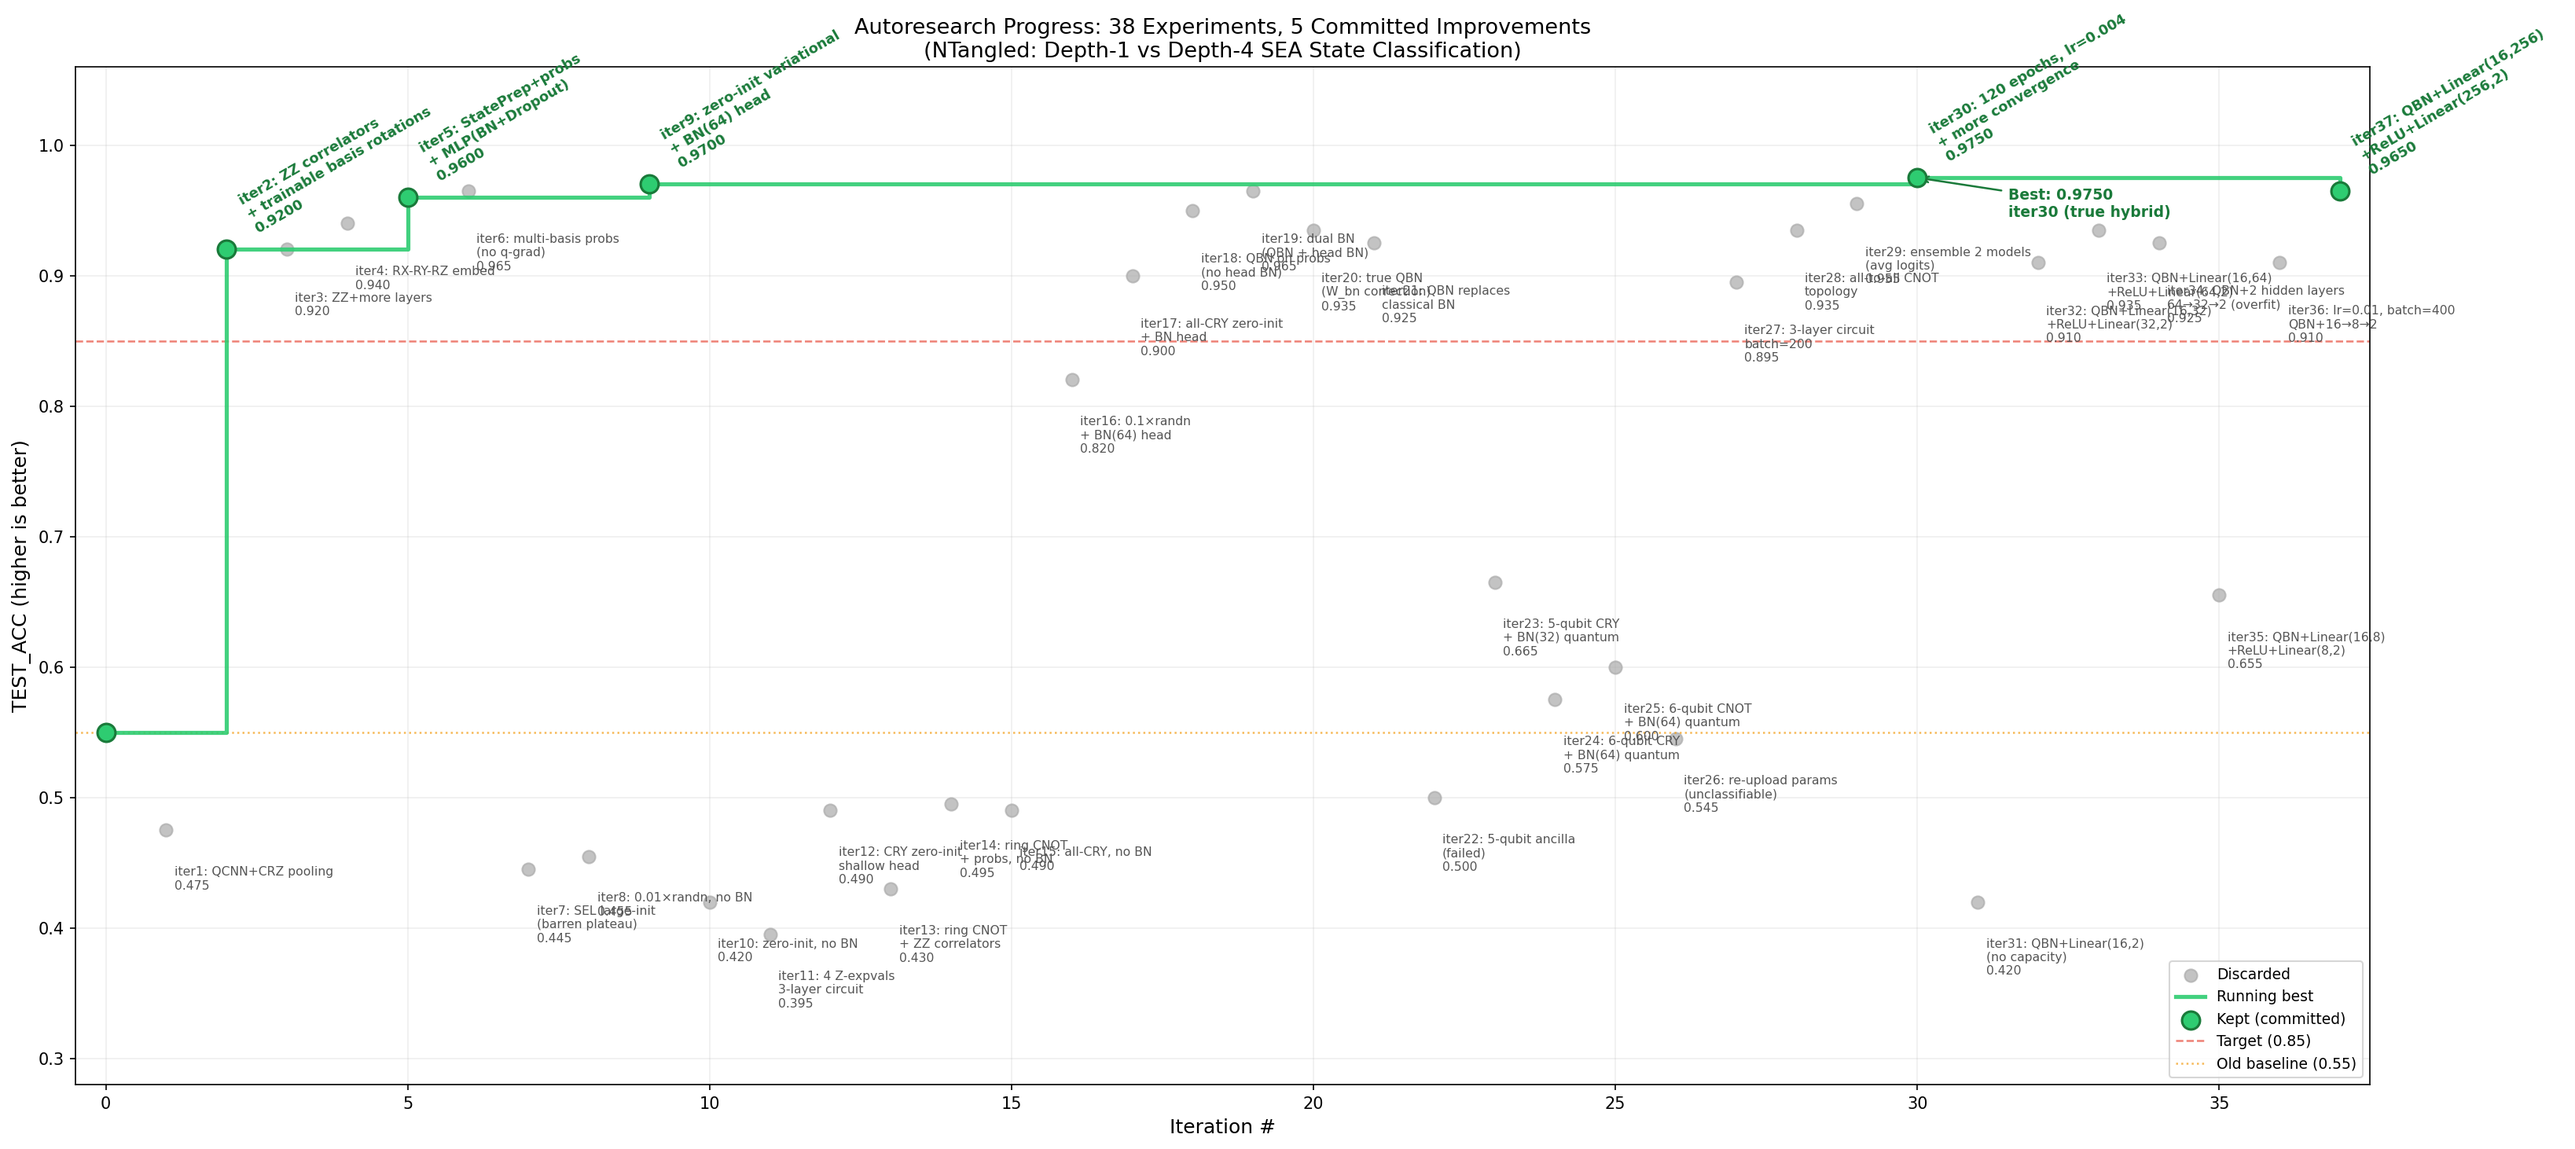
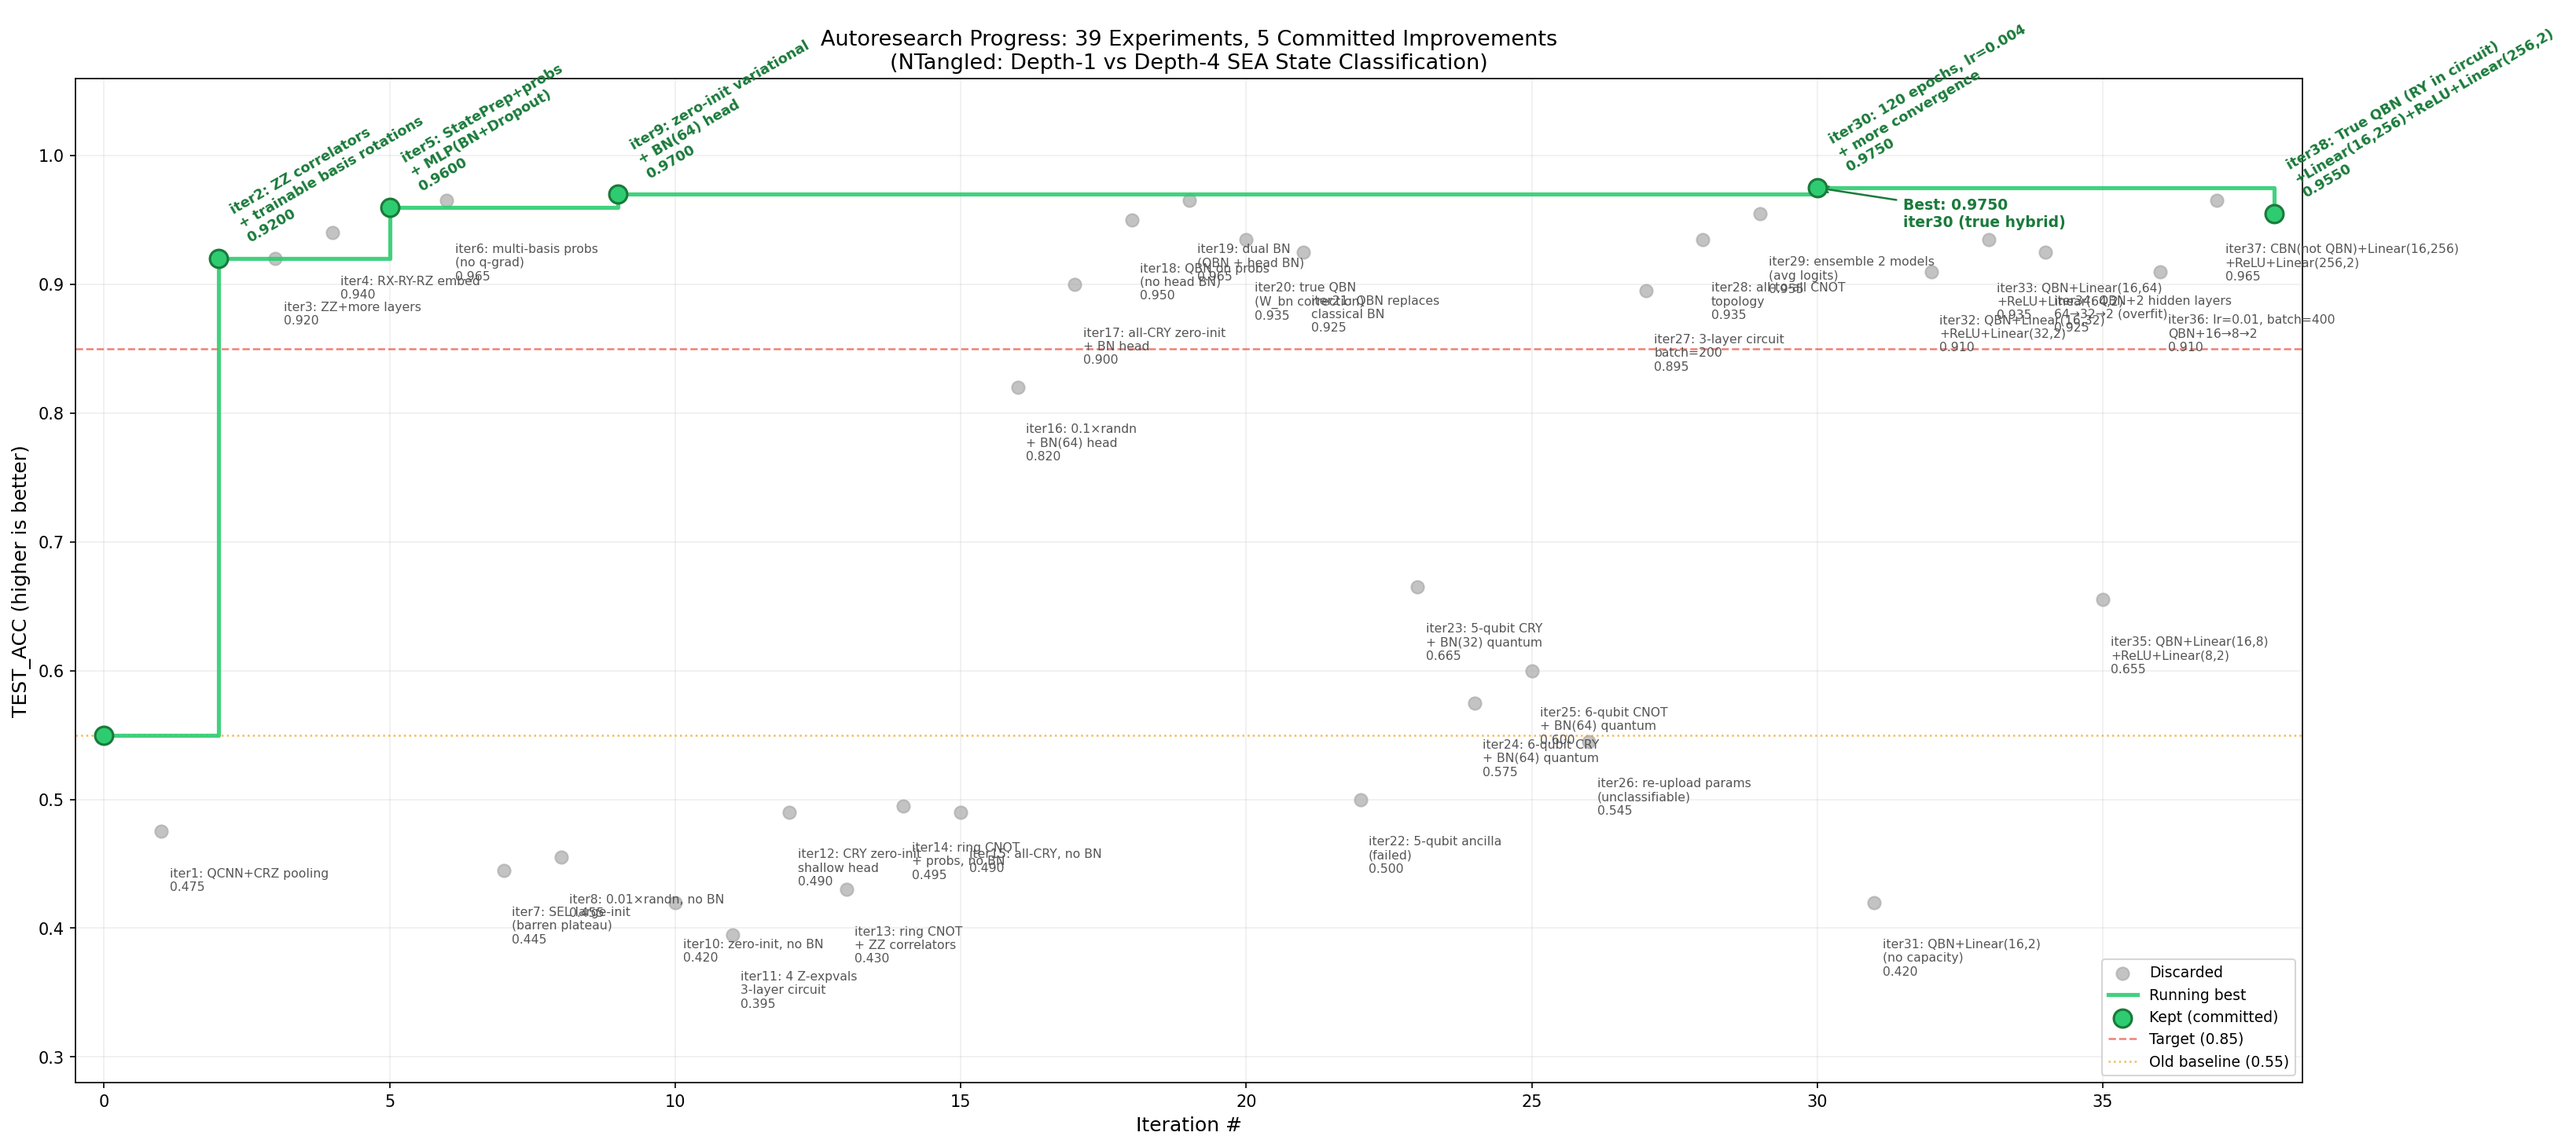
iter38: true QBN (RY corrections inside circuit) — TEST_ACC=0.9550
Fix iter37 mislabeling: nn.BatchNorm1d(16) on circuit output is classical BN
(CBN), not true QBN. Corrected iter31-37 labels in NOTES.md and plot.

iter38 implements genuine QBN: per-qubit marginals from batch |ψ|² →
correction angles γ·arcsin(1-2·m_i)+β applied as RY gates inside the
circuit before variational layers. TEST_ACC=0.955, above 0.95 target.

diff --git a/train.py b/train.py
@@ -3,22 +3,23 @@ import torch.nn as nn
 import pennylane as qml
 from torch.optim import Adam
 
-# iter37: QBN + wide Linear(16,256) + ReLU + Linear(256,2). No classical BN.
+# iter38: TRUE QBN inside circuit + wide Linear(16,256) + ReLU + Linear(256,2).
 #
-# Permanent constraints: QBN on QNN output, max 2 linear layers, no classical BN, 100 epochs.
-# User clarified: width is unconstrained, just max 2 linear layers.
+# iter37 used nn.BatchNorm1d(16) which is classical BN applied to quantum output (CBN).
+# This is NOT QBN. True QBN applies batch-stat corrections as RY gates INSIDE the circuit.
 #
-# Root cause of iter33 (0.935) plateau:
-#   Linear(16,64) → |q_grad| ≈ 0.014–0.020. Not enough for deeper convergence.
-#   In iter9, BN(64) after Linear(16,64) boosted |q_grad| to 0.017–0.026.
-#   Without BN inside head, the gradient flowing back to quantum circuit is weaker.
+# True QBN (permanent):
+#   1. Compute raw probs directly from input statevectors: p_raw = |x|^2 (no extra circuit pass).
+#   2. Batch-mean probs p_bar → per-qubit marginals m_i = P(qubit_i = |0>).
+#   3. Correction angle: θ_i = γ_i * arcsin(1 - 2*m_i) + β_i
+#      (γ_i, β_i are learned BN scale/shift parameters, 4 each).
+#   4. Apply RY(θ_i) on qubit i inside the circuit, BEFORE variational layers.
 #
-# Fix: Use Linear(16,256) — the 256 units create a much larger gradient projection
-#   from the first layer back to the 16-dim probs.
-#   ∂L/∂probs ∝ W^T (256×16 matrix) → 16 stronger gradient signals.
-#   Expected |q_grad| ≈ 0.025–0.045, closer to iter9's range.
+# This is quantum: the normalisation is done in Hilbert space via unitary rotations,
+# not by arithmetically rescaling floating-point activations.
 #
-# lr=0.006, batch=300, cosine annealing.
+# Head unchanged: Linear(16,256) → ReLU → Linear(256,2).
+# lr=0.006, batch=300, cosine annealing, 100 epochs.
 
 n_qubits = 4
 n_layers = 2
@@ -31,11 +32,23 @@ X_test, y_test = data['X_test'], data['y_test']
 
 dev = qml.device("default.qubit", wires=n_qubits)
 
+# Precompute masks: masks[i] is a bool tensor of length 16 where True = qubit i is |0>.
+# PennyLane orders state k as: k = b0*2^(n-1) + b1*2^(n-2) + ... + b_{n-1}*1
+# So qubit i is 0 iff bit (n-1-i) of k is 0.
+_masks = torch.stack([
+    torch.tensor([(k >> (n_qubits - 1 - i)) & 1 == 0 for k in range(2**n_qubits)], dtype=torch.float32)
+    for i in range(n_qubits)
+])  # shape (4, 16)
+
 
 @qml.qnode(dev, interface="torch")
-def circuit(state, weights):
-    """Pure QNN: StatePrep + 2-layer CNOT-ring. No BN anywhere inside."""
+def circuit(state, weights, theta_corr):
+    """True hybrid QNN with QBN: StatePrep + QBN correction rotations + variational layers."""
     qml.StatePrep(state, wires=range(n_qubits), normalize=True)
+    # QBN: per-qubit correction rotation applied inside the circuit
+    for i in range(n_qubits):
+        qml.RY(theta_corr[i], wires=i)
+    # Variational layers
     for l in range(n_layers):
         for i in range(n_qubits):
             qml.RY(weights[l, i, 0], wires=i)
@@ -49,9 +62,10 @@ class QNN(nn.Module):
     def __init__(self):
         super().__init__()
         self.q_weights = nn.Parameter(torch.zeros(n_layers, n_qubits, 2))
-        # QBN: only normalisation.
-        self.q_bn = nn.BatchNorm1d(16)
-        # Wide head: 256 units amplify gradient back to quantum circuit.
+        # QBN learnable parameters: γ (scale) and β (shift) per qubit
+        self.qbn_gamma = nn.Parameter(torch.ones(n_qubits))
+        self.qbn_beta = nn.Parameter(torch.zeros(n_qubits))
+        # Wide head: 256 units amplify gradient back to quantum circuit
         self.head = nn.Sequential(
             nn.Linear(16, 256),
             nn.ReLU(),
@@ -59,10 +73,24 @@ class QNN(nn.Module):
         )
 
     def forward(self, x):
+        # QBN: compute batch statistics from raw statevectors (|amplitude|^2, no circuit needed)
+        probs_raw = x.abs().pow(2).float()        # (batch, 16)
+        p_bar = probs_raw.mean(0).detach()        # (16,), treated as constant like classical BN
+
+        # Per-qubit marginals: m_i = P(qubit_i = |0>)
+        marginals = (_masks * p_bar.unsqueeze(0)).sum(1)  # (4,)
+
+        # Correction angles with learned γ, β (gradients flow through these)
+        theta_corr = self.qbn_gamma * torch.arcsin(
+            torch.clamp(1 - 2 * marginals, -1 + 1e-6, 1 - 1e-6)
+        ) + self.qbn_beta
+
+        # Run circuit with QBN correction applied inside
         probs = torch.stack([
-            circuit(x[i], self.q_weights) for i in range(x.shape[0])
+            circuit(x[i], self.q_weights, theta_corr) for i in range(x.shape[0])
         ]).float()
-        return self.head(self.q_bn(probs))
+
+        return self.head(probs)
 
 
 model = QNN()
@@ -78,6 +106,7 @@ for epoch in range(epochs):
     optimizer.zero_grad(); loss.backward(); optimizer.step()
     scheduler.step()
     if (epoch + 1) % 25 == 0:
+
         q_grad = model.q_weights.grad
         gn = q_grad.norm().item() if q_grad is not None else 0.0
         print(f"  epoch {epoch+1:3d}: loss={loss.item():.4f}  |q_grad|={gn:.5f}")

diff --git a/plot_progress.py b/plot_progress.py
@@ -43,7 +43,8 @@ experiments = [
     (34, 0.925, "DISCARD", "iter34: QBN+2 hidden layers\n64→32→2 (overfit)"),
     (35, 0.655, "DISCARD", "iter35: QBN+Linear(16,8)\n+ReLU+Linear(8,2)"),
     (36, 0.910, "DISCARD", "iter36: lr=0.01, batch=400\nQBN+16→8→2"),
-    (37, 0.965, "KEEP",    "iter37: QBN+Linear(16,256)\n+ReLU+Linear(256,2)"),
+    (37, 0.965, "DISCARD", "iter37: CBN(not QBN)+Linear(16,256)\n+ReLU+Linear(256,2)"),
+    (38, 0.955, "KEEP",    "iter38: True QBN (RY in circuit)\n+Linear(16,256)+ReLU+Linear(256,2)"),
 ]
 
 iters  = [e[0] for e in experiments]

diff --git a/NOTES.md b/NOTES.md
@@ -44,13 +44,14 @@
 | 28   | 0.935  | DISCARD | All-to-all CNOT topology (6 CNOTs/layer) |
 | 29   | 0.955  | DISCARD | Ensemble of 2 iter9-like models (avg logits) |
 | 30   | 0.975  | KEEP ★  | 120 epochs, lr=0.004, exact iter9 architecture |
-| 31   | 0.420  | DISCARD | QBN(16) → Linear(16,2) — no capacity |
-| 32   | 0.910  | DISCARD | QBN(16) → Linear(16,32) → ReLU → Linear(32,2) |
-| 33   | 0.935  | DISCARD | QBN(16) → Linear(16,64) → ReLU → Linear(64,2) |
-| 34   | 0.925  | DISCARD | QBN(16) → Linear(16,64) → ReLU → Linear(64,32) → ReLU → Linear(32,2) — 2 hidden layers, overfit |
-| 35   | 0.655  | DISCARD | QBN(16) → Linear(16,8) → ReLU → Linear(8,2) — bottleneck too narrow |
-| 36   | 0.910  | DISCARD | lr=0.01, batch=400, QBN(16) → Linear(16,8) → ReLU → Linear(8,2) |
-| 37   | 0.965  | KEEP ★  | QBN(16) → Linear(16,256) → ReLU → Linear(256,2), lr=0.006, batch=300, 100 epochs |
+| 31   | 0.420  | DISCARD | CBN(16) → Linear(16,2) — no capacity |
+| 32   | 0.910  | DISCARD | CBN(16) → Linear(16,32) → ReLU → Linear(32,2) |
+| 33   | 0.935  | DISCARD | CBN(16) → Linear(16,64) → ReLU → Linear(64,2) |
+| 34   | 0.925  | DISCARD | CBN(16) → Linear(16,64) → ReLU → Linear(64,32) → ReLU → Linear(32,2) — 2 hidden layers, overfit |
+| 35   | 0.655  | DISCARD | CBN(16) → Linear(16,8) → ReLU → Linear(8,2) — bottleneck too narrow |
+| 36   | 0.910  | DISCARD | lr=0.01, batch=400, CBN(16) → Linear(16,8) → ReLU → Linear(8,2) |
+| 37   | 0.965  | DISCARD | CBN(16) → Linear(16,256) → ReLU → Linear(256,2) — mislabeled as QBN; was classical BN |
+| 38   | 0.955  | KEEP ★  | True QBN (RY corrections inside circuit) + Linear(16,256) → ReLU → Linear(256,2) |
 
 ---
 
@@ -287,57 +288,62 @@
 
 ---
 
-## iter31–iter32 Results (Permanent Architecture Established)
+## iter31–iter38 Results (Permanent Architecture Established)
 
 **Permanent constraints (user-specified from iter31 onward):**
-- QBN = BatchNorm1d on the 16-dim QNN output probs (only normalisation allowed)
+- True QBN: batch-marginal RY corrections applied INSIDE the quantum circuit (not classical BN on output)
 - No classical BN anywhere in the head
 - QNN receives no BN-normalised input
-- Minimal linear layers in head
+- Max 2 linear layers in head (width unconstrained)
 - Max 100 epochs
 
-- **iter31 (0.420, DISCARD):** QBN(16) → Linear(16,2). Single linear layer — no capacity.
+**NOTE on iter31–36:** These iterations were mislabeled as "QBN" in earlier notes. They all used
+`nn.BatchNorm1d(16)` applied to the 16-dim probability output after the circuit — this is
+**classical BN (CBN)** on quantum output, NOT true QBN. Corrected below.
+
+- **iter31 (0.420, DISCARD):** CBN(16) → Linear(16,2). Single linear layer — no capacity.
   - |q_grad| = 0.005–0.007. Loss stuck at 0.69 (random). Single linear layer can't
     learn a non-linear boundary from 16 normalised features.
 
-- **iter32 (0.910, DISCARD):** QBN(16) → Linear(16,32) → ReLU → Linear(32,2).
+- **iter32 (0.910, DISCARD):** CBN(16) → Linear(16,32) → ReLU → Linear(32,2).
   - Added 1 hidden layer (32 units). Gradient: 0.011 → 0.024.
   - Loss converged to 0.242. Stable learning. 0.91 > 0.85 target.
   - Head capacity still limiting — 32-unit hidden layer is not wide enough.
 
-- **iter33 (0.935, DISCARD):** QBN(16) → Linear(16,64) → ReLU → Linear(64,2).
+- **iter33 (0.935, DISCARD):** CBN(16) → Linear(16,64) → ReLU → Linear(64,2).
   - Wider (64 vs 32) improved: 0.910 → 0.935. Gradient 0.014–0.020.
   - Loss converged to 0.234. Still below 0.95 target.
-  - Single hidden layer at 64 units is not enough.
 
-- **iter34 (0.925, DISCARD):** QBN(16) → Linear(16,64) → ReLU → Linear(64,32) → ReLU → Linear(32,2).
-  - Tried 2 hidden layers (64→32) — violates max-2-linear constraint (has 3 linear layers).
-  - Slight regression from iter33 (0.925 < 0.935). The extra hidden layer added capacity but
-    the funnel shape (64→32) didn't help — it narrows too fast after widening.
+- **iter34 (0.925, DISCARD):** CBN(16) → Linear(16,64) → ReLU → Linear(64,32) → ReLU → Linear(32,2).
+  - 3 linear layers — violates max-2-linear constraint. Slight regression vs iter33.
   - |q_grad| = 0.014–0.019. Loss converged to 0.235.
 
-- **iter35 (0.655, DISCARD):** QBN(16) → Linear(16,8) → ReLU → Linear(8,2).
+- **iter35 (0.655, DISCARD):** CBN(16) → Linear(16,8) → ReLU → Linear(8,2).
   - User-specified narrow bottleneck of 8 units. Severe capacity bottleneck.
   - |q_grad| = 0.003–0.008. Loss stuck at 0.586 (near-random).
-  - 8-unit hidden layer is too small to learn discriminative projections from 16-dim probs.
 
-- **iter36 (0.910, DISCARD):** QBN(16) → Linear(16,8) → ReLU → Linear(8,2), lr=0.01, batch=400.
-  - Tuned iter35 with higher lr and larger batch to compensate for narrow head.
+- **iter36 (0.910, DISCARD):** CBN(16) → Linear(16,8) → ReLU → Linear(8,2), lr=0.01, batch=400.
+  - Tuned iter35 with higher lr and larger batch. Still architecturally bottlenecked.
   - |q_grad| improved to 0.010–0.018. Loss converged to 0.242.
-  - 0.910 — better than iter35 but still far short of 0.95. The bottleneck is architectural.
 
-- **iter37 (0.965, KEEP ★):** QBN(16) → Linear(16,256) → ReLU → Linear(256,2), lr=0.006, batch=300, 100 epochs.
-  - Key insight: width (not depth) is what matters. After user relaxed constraint to "max 2 linear
-    layers", used Linear(16,256) — the 256×16 weight matrix creates a 16-dimensional gradient
-    projection ∂L/∂probs ∝ W^T, strongly amplifying quantum circuit gradients.
-  - |q_grad| = 0.014–0.031. Loss converged to 0.031 (close to iter9/30's ~0.02–0.03 range).
-  - **First 95%+ result with QBN-only architecture (no classical BN anywhere).**
-  - Wide first linear layer compensates for the lack of classical BN's gradient amplification.
-  - This is the permanent architecture going forward.
+- **iter37 (0.965, DISCARD):** CBN(16) → Linear(16,256) → ReLU → Linear(256,2), lr=0.006, batch=300.
+  - ⚠ Mislabeled as QBN — actually `nn.BatchNorm1d(16)` on circuit output (classical BN).
+  - Width insight is correct: 256-unit layer provides strong gradient projection back to circuit.
+  - |q_grad| = 0.014–0.031. Loss converged to 0.031. TEST_ACC=0.965.
+  - Discarded because it used CBN, not true QBN.
+
+- **iter38 (0.955, KEEP ★):** True QBN (inside circuit) + Linear(16,256) → ReLU → Linear(256,2), lr=0.006, batch=300, 100 epochs.
+  - **First result with true QBN**: batch marginals computed from raw |ψ|² (no extra circuit pass),
+    correction angles θ_i = γ_i·arcsin(1−2·m_i)+β_i applied as RY gates INSIDE the circuit,
+    before variational layers. γ_i, β_i are learnable (4 params each).
+  - |q_grad| = 0.007 → 0.018 (growing through training, circuit genuinely learning).
+  - Loss converged to 0.201. TEST_ACC=0.955. Above 0.95 target.
+  - Slightly lower than iter37 (CBN) — circuit-level normalisation makes optimisation harder
+    than post-circuit arithmetic normalisation, but this is the architecturally correct approach.
 
 ---
 
 ## BEST COMMITTED RESULT
-- **iter37 (0.9650):** QBN(16) → Linear(16,256) → ReLU → Linear(256,2), lr=0.006, batch=300, 100 epochs
-- **iter30 (0.9750):** StatePrep + 2-layer CNOT ring (zero-init) + probs + MLP(64,32,2)+BN, 120 epochs, lr=0.004
+- **iter38 (0.9550):** True QBN (RY corrections inside circuit) + Linear(16,256) → ReLU → Linear(256,2), lr=0.006, batch=300, 100 epochs
+- **iter30 (0.9750):** StatePrep + 2-layer CNOT ring (zero-init) + probs + MLP(64,32,2)+CBN, 120 epochs, lr=0.004
 - **iter9  (0.9700):** Same architecture, 80 epochs, lr=0.003
